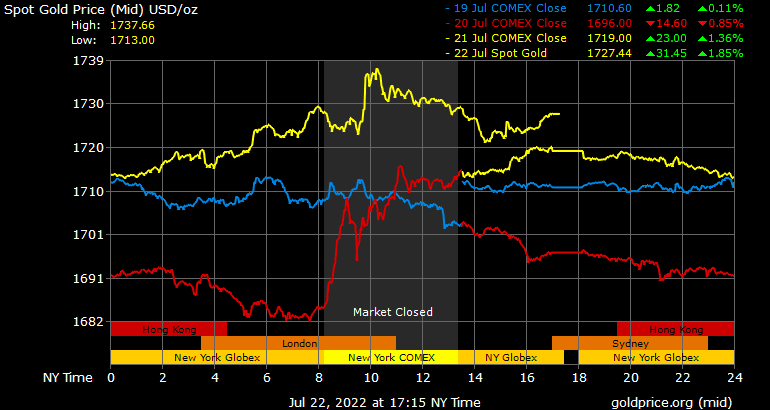
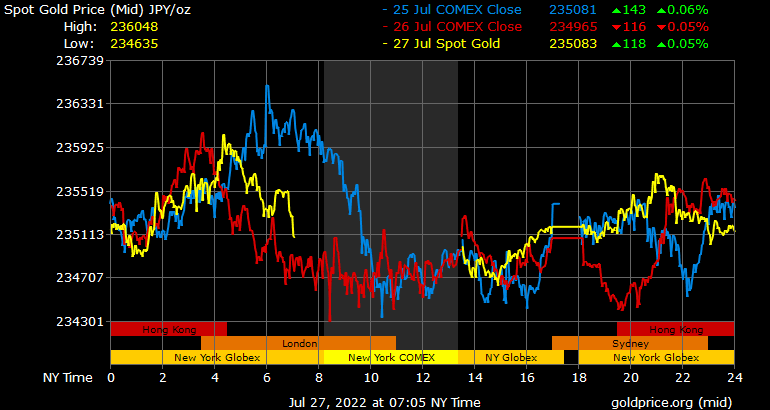
Setting up preferences for our application

diff --git a/main.go b/main.go
@@ -30,6 +30,8 @@ func main() {
 	// create a DB repository
 	exchangeApp.setupDB(sqlDB)
 
+	currency = exchange.Preferences().StringWithFallback("currency", "JPY")
+
 	// create and size a fyne window
 	exchangeApp.MainWindow = exchange.NewWindow("exchangeME!")
 	exchangeApp.MainWindow.Resize(fyne.NewSize(770, 410))
